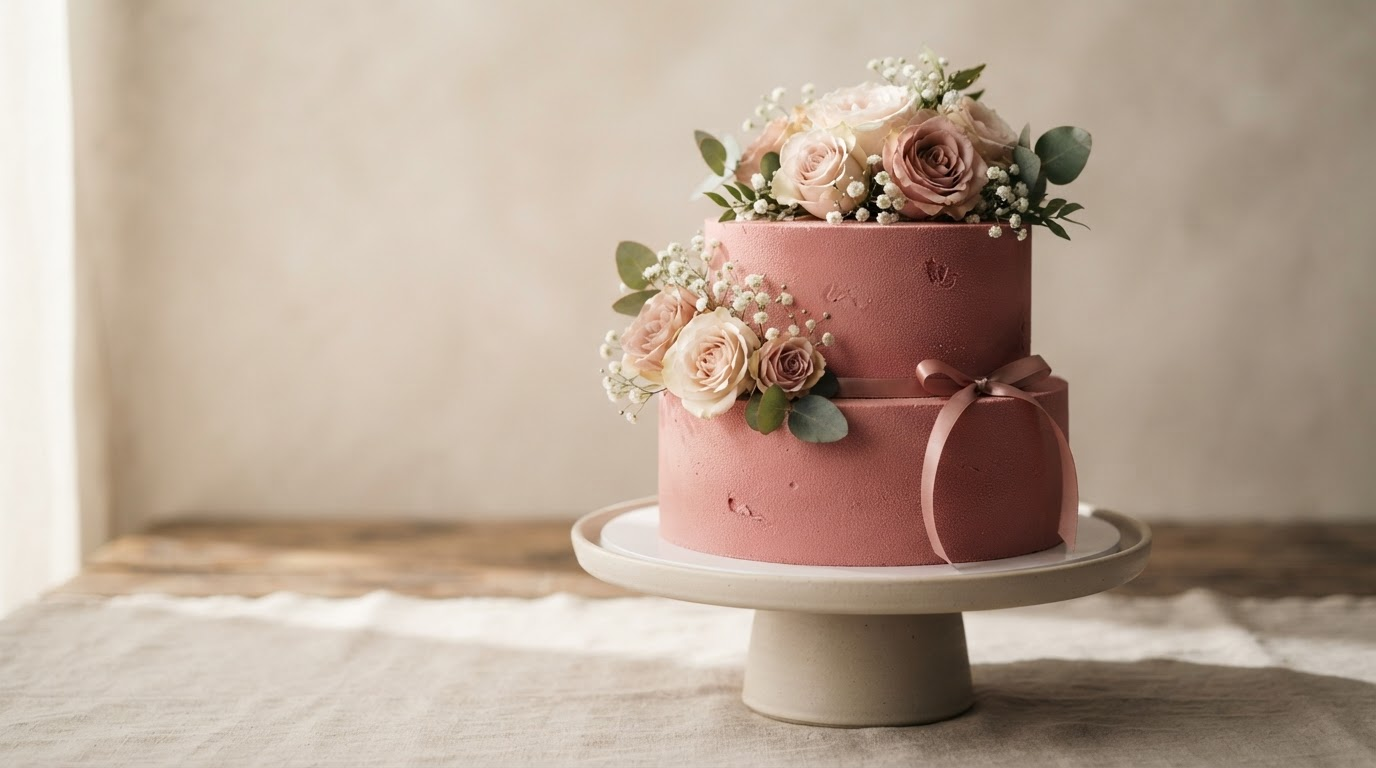
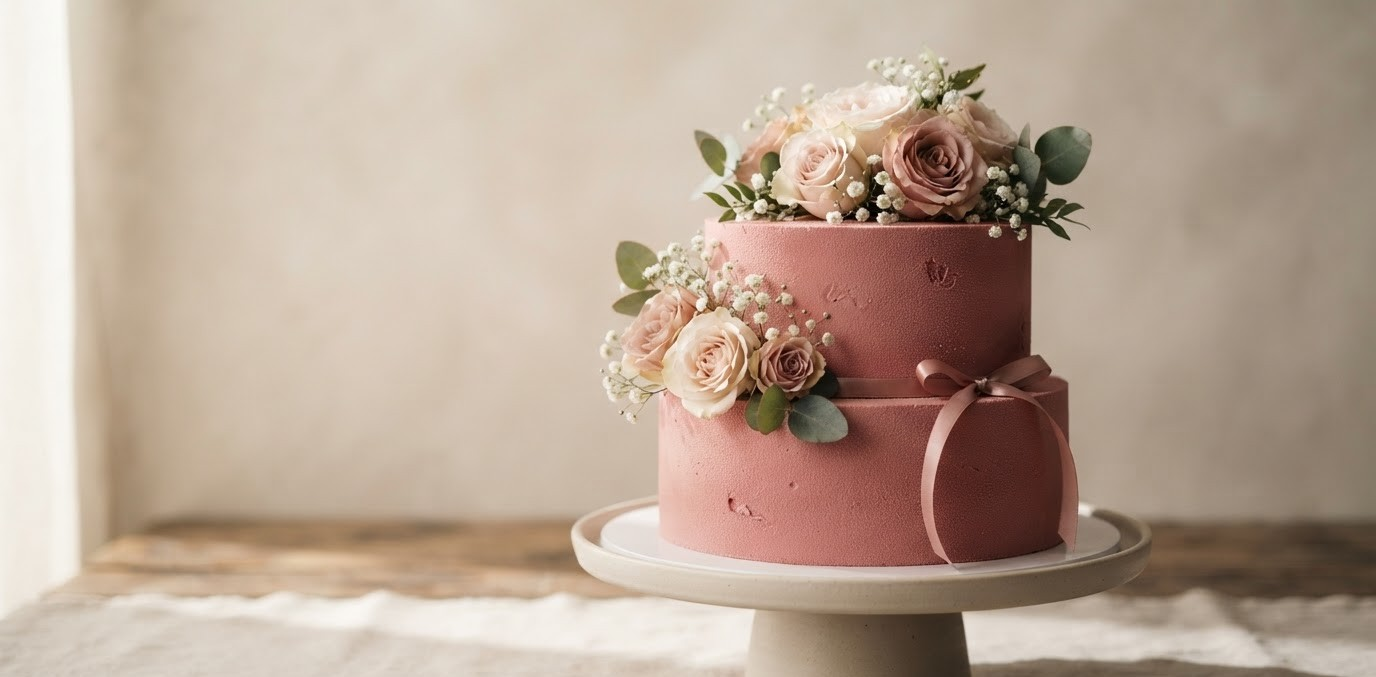
Use user's cropped hero photo, increase hero/nav left margin for editorial feel, balance configurator panel width

diff --git a/index.html b/index.html
@@ -84,7 +84,7 @@ em{font-style:italic;font-weight:600;font-family:'Playfair Display',serif;color:
 
 /* ===== NAV ===== */
 header{position:fixed;top:0;left:0;right:0;z-index:100;background:rgba(251,243,238,.88);backdrop-filter:blur(14px);border-bottom:1px solid var(--line)}
-.nav-inner{max-width:1480px;margin:0 auto;padding:16px var(--pad);display:flex;align-items:center;justify-content:space-between;gap:20px}
+.nav-inner{max-width:1480px;margin:0 auto;padding:16px clamp(28px,9vw,152px);display:flex;align-items:center;justify-content:space-between;gap:20px}
 .logo{font-family:'Playfair Display',serif;font-size:25px;letter-spacing:.01em;flex-shrink:0;display:flex;align-items:center;gap:8px;color:var(--ink)}
 .logo em{color:var(--rose)}
 .logo-icon{height:34px;width:auto;filter:sepia(1) saturate(2) hue-rotate(300deg) brightness(.65) contrast(1.05);opacity:.88}
@@ -107,12 +107,12 @@ header{position:fixed;top:0;left:0;right:0;z-index:100;background:rgba(251,243,2
 /* ===== HERO (full-bleed real photo) ===== */
 #hero{position:relative;min-height:55vh;display:flex;align-items:flex-end;overflow:hidden}
 .hero-bg{position:absolute;inset:0;z-index:0}
-.hero-bg img{width:100%;height:100%;object-fit:cover;object-position:center 28%;animation:kenburns 22s ease-in-out infinite alternate}
+.hero-bg img{width:100%;height:100%;object-fit:cover;object-position:center center;animation:kenburns 22s ease-in-out infinite alternate}
 @keyframes kenburns{from{transform:scale(1)}to{transform:scale(1.07)}}
 .hero-bg::after{content:'';position:absolute;inset:0;background:
   linear-gradient(180deg, rgba(30,18,22,.05) 0%, rgba(30,18,22,.25) 55%, rgba(30,18,22,.82) 100%),
   linear-gradient(90deg, rgba(30,18,22,.62) 0%, rgba(30,18,22,.15) 60%, transparent 100%)}
-.hero-copy{position:relative;z-index:2;padding:104px var(--pad) 46px;max-width:580px}
+.hero-copy{position:relative;z-index:2;padding:104px clamp(28px,9vw,152px) 46px;max-width:600px}
 .hero-h{font-size:clamp(40px,4.9vw,68px);line-height:1.06;font-weight:700;margin-bottom:22px;color:#fff;letter-spacing:-.01em}
 .hero-h em{color:var(--gold-soft)}
 .hero-sub{font-size:15.5px;font-weight:400;line-height:1.75;color:rgba(255,255,255,.86);max-width:430px;margin-bottom:30px}
@@ -184,13 +184,13 @@ header{position:fixed;top:0;left:0;right:0;z-index:100;background:rgba(251,243,2
 .style-opt.active .style-thumb{border-color:var(--rose)}
 .style-opt-label{font-size:11.5px;font-weight:600;color:var(--ink-soft);text-align:center;line-height:1.3}
 .style-opt.active .style-opt-label{color:var(--rose-deep)}
-.cake-preview{background:var(--plate);border:1px solid var(--line);box-shadow:var(--sh-lg);border-radius:28px;padding:20px;display:flex;flex-direction:column;align-items:center;gap:18px;position:sticky;top:100px}
+.cake-preview{background:var(--plate);border:1px solid var(--line);box-shadow:var(--sh-lg);border-radius:28px;padding:18px;display:flex;flex-direction:column;align-items:center;gap:14px;position:sticky;top:100px;max-width:400px}
 .preview-photo{width:100%;aspect-ratio:1/1;border-radius:18px;overflow:hidden;position:relative}
 .preview-photo img{width:100%;height:100%;object-fit:cover;transition:opacity .3s ease}
 .preview-style-name{position:absolute;left:14px;bottom:14px;font-family:'Playfair Display',serif;font-style:italic;font-weight:600;font-size:19px;color:#fff;text-shadow:0 2px 10px rgba(0,0,0,.4);transition:opacity .25s ease}
-.preview-disclaimer{font-size:11px;line-height:1.55;color:var(--ink-faint);text-align:center;padding:0 12px;max-width:340px}
+.preview-disclaimer{font-size:10.5px;line-height:1.45;color:var(--ink-faint);text-align:center;padding:0 8px}
 .cake-summary{width:100%;padding:0 12px}
-.cake-summary-row{display:flex;justify-content:space-between;padding:13px 0;border-bottom:1px solid var(--line);font-size:14.5px;font-weight:400;color:var(--ink-soft)}
+.cake-summary-row{display:flex;justify-content:space-between;padding:10px 0;border-bottom:1px solid var(--line);font-size:14px;font-weight:400;color:var(--ink-soft)}
 .cake-summary-row span:last-child{font-family:'Playfair Display',serif;font-style:italic;font-weight:600;color:var(--rose);font-size:16px;text-align:right}
 .builder-cta{width:calc(100% - 24px);margin:0 12px;background:var(--rose);color:#fff;border:none;padding:17px;border-radius:100px;font-size:12.5px;font-weight:600;letter-spacing:.06em;text-transform:uppercase;cursor:pointer;transition:all .3s;box-shadow:var(--sh-sm)}
 .builder-cta:hover{background:var(--rose-deep);box-shadow:var(--sh-md)}